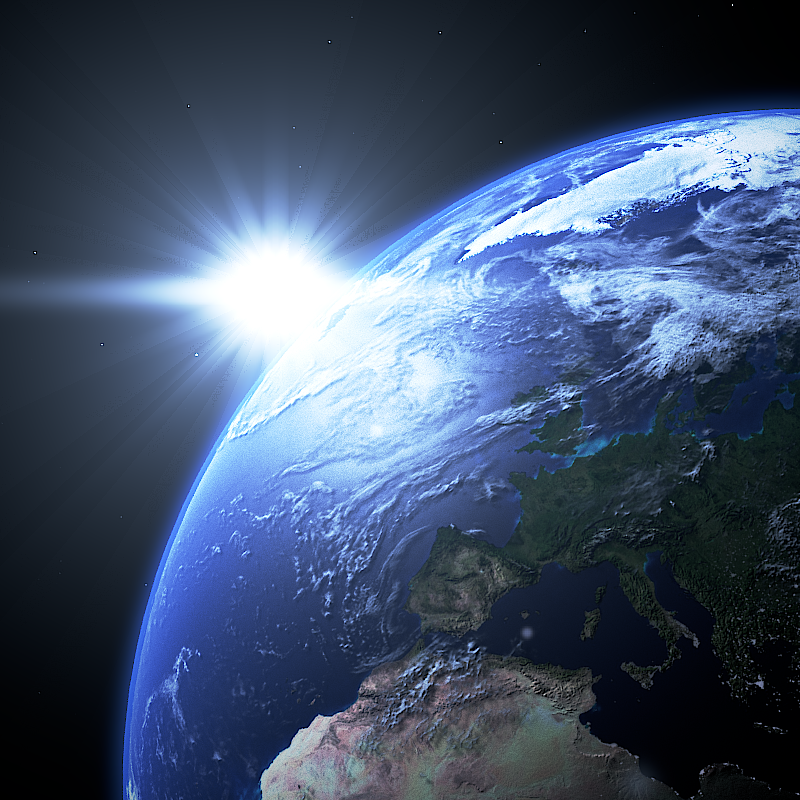
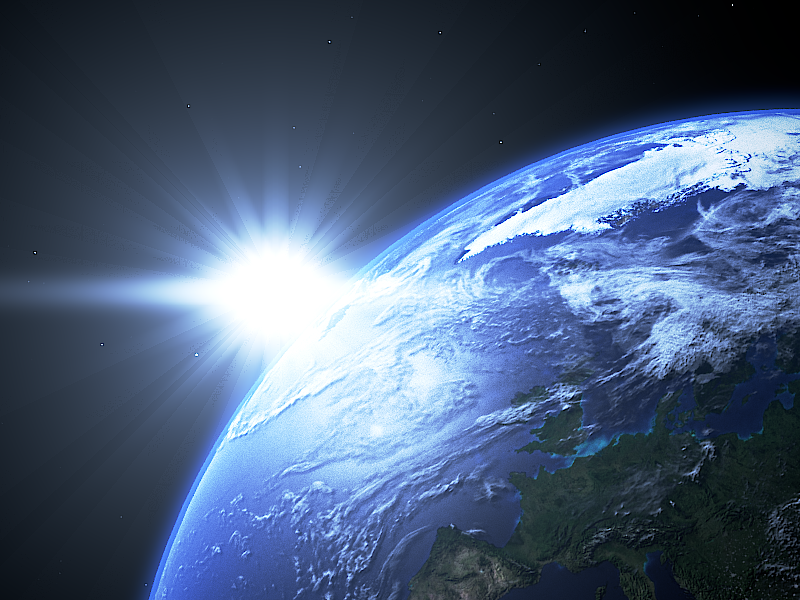
Change game's resolution

diff --git a/main.py b/main.py
@@ -6,7 +6,7 @@ import math
 pygame.init()
 clock = pygame.time.Clock()
 font = pygame.font.Font(None, 64)
-screen = pygame.display.set_mode((800, 800))
+screen = pygame.display.set_mode((800, 600))
 
 IMG_EARTH = pygame.image.load('earth.png').convert()
 IMG_ASTEROID_BIG = pygame.image.load('asteroid-big.png').convert_alpha()
